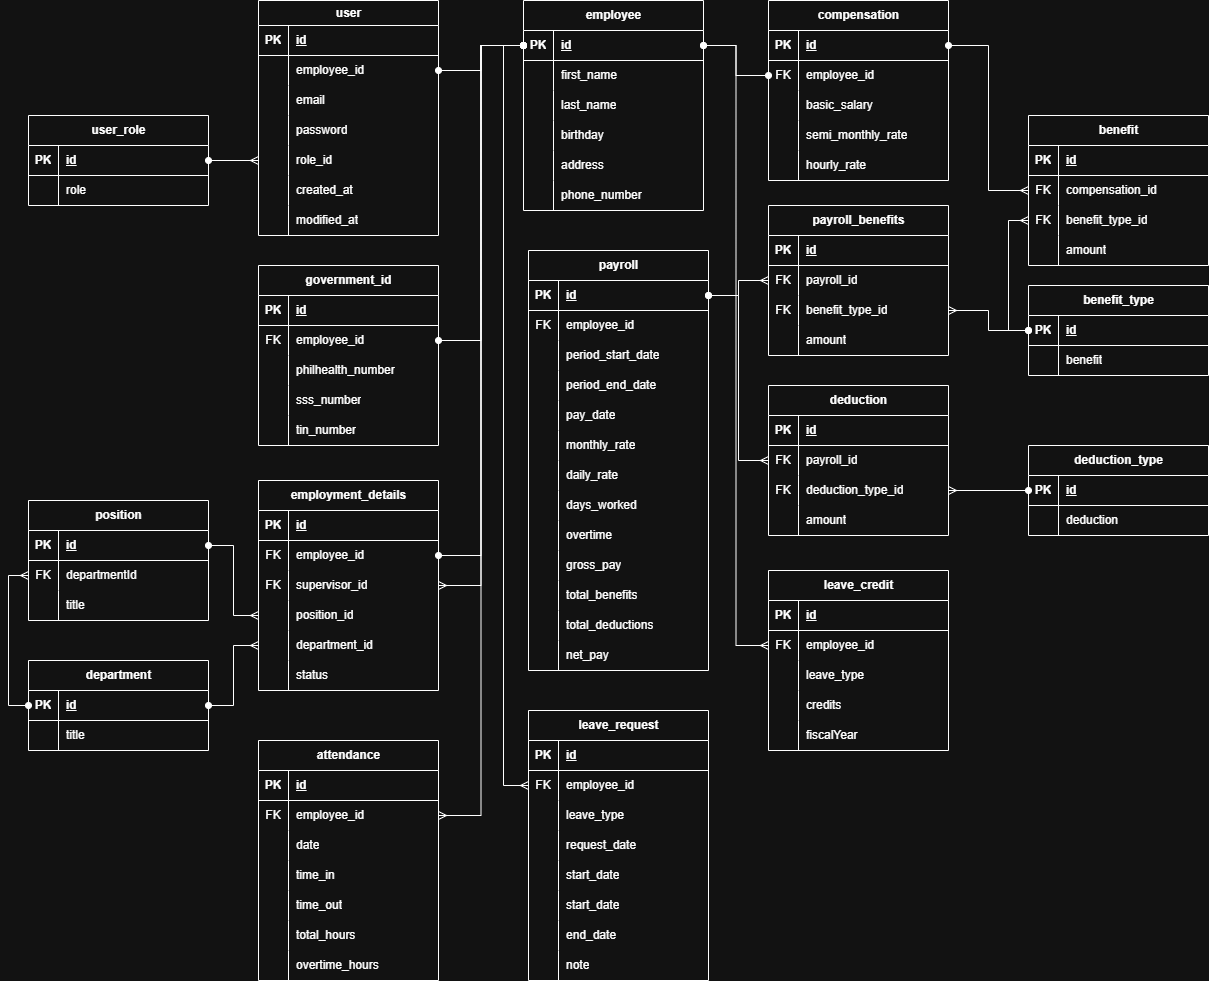
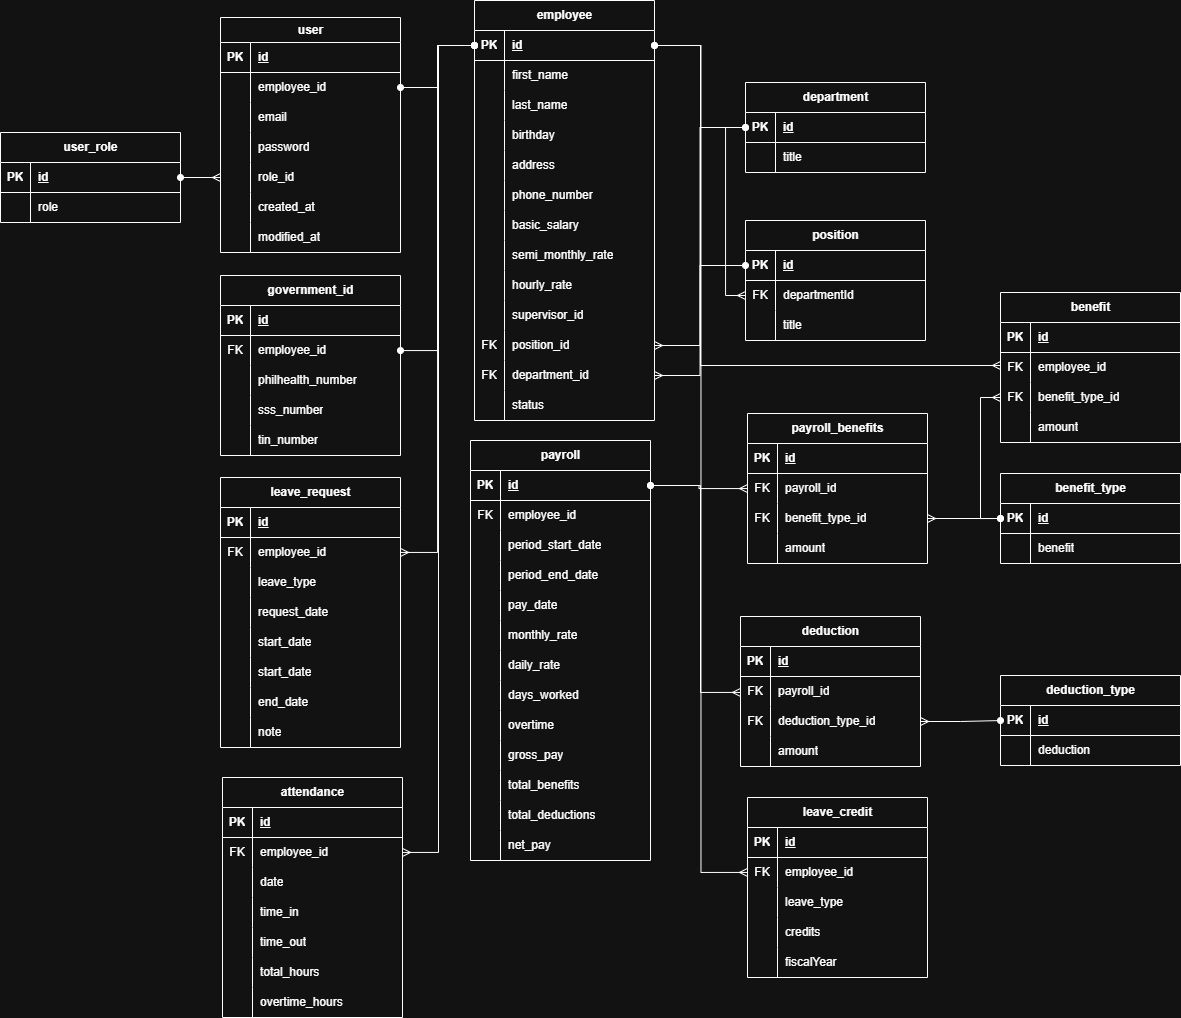
docs: simplify README and add updated erd

diff --git a/readme.md b/readme.md
@@ -2,167 +2,92 @@
 
 ![Java](https://img.shields.io/badge/Java-21-orange?style=flat-square&logo=openjdk)
 ![Spring Boot](https://img.shields.io/badge/Spring%20Boot-3.5.6-brightgreen?style=flat-square&logo=spring-boot)
-![PostgreSQL](https://img.shields.io/badge/PostgreSQL-14+-blue?style=flat-square&logo=postgresql)
-![Maven](https://img.shields.io/badge/Maven-3.8+-C71A36?style=flat-square&logo=apache-maven)
-![Status](https://img.shields.io/badge/Status-In%20Development-blue?style=flat-square)
+![Docker](https://img.shields.io/badge/Docker-Enabled-2496ED?style=flat-square&logo=docker)
+![CI/CD Pipeline](https://img.shields.io/github/actions/workflow/status/iodsky/sweldox-api/ci-cd.yml?branch=master&style=flat-square&logo=github&label=CI%2FCD)
 
-## 🎯 Project Overview
+## 🎯 Overview
 
-Sweldox API is a full-featured Human Resources Information System (HRIS) that manages employee data, attendance tracking, and payroll processing. The system implements role-based access control, JWT authentication, and follows clean architecture principles.
+Sweldox is a Human Resources Information System (HRIS) RESTful API that manages employee data, attendance tracking, leave management, and payroll processing. Built with Spring Boot 3.5.6 and Java 21, it features JWT authentication, role-based access control, and comprehensive API documentation with Swagger/OpenAPI.
 
-## 🏗 Architecture & Technology Stack
+## 🛠 Technology Stack
 
-### Core Technologies
-- **Java 21** - Modern Java LTS version with latest language features
-- **Spring Boot 3.5.6** - Enterprise-grade application framework
-- **Spring Data JPA** - Database abstraction and ORM
-- **Spring Security** - Authentication and authorization
-- **PostgreSQL** - Relational database management
-- **JWT (JSON Web Tokens)** - Stateless authentication mechanism
-- **Maven** - Dependency management and build automation
-
-### Key Dependencies
-- **Lombok** - Reduces boilerplate code
-- **OpenCSV** - CSV file processing for data imports
-- **Spring Validation** - Request validation
-- **Spring Boot DevTools** - Development productivity tools
-- **JJWT (JSON Web Token for Java)** - JWT token generation and validation
-
-## 📁 Project Structure
-
-```
-├── src/
-│   ├── main/
-│   │   ├── java/com/iodsky/sweldox/
-│   │   │   ├── Application.java      # Application entry point
-│   │   │   ├── attendance/                   # Attendance management module
-│   │   │   ├── common/                       # Shared utilities and DTOs
-│   │   │   ├── csvimport/                    # CSV import functionality
-│   │   │   ├── employee/                     # Employee management module
-│   │   │   ├── leave/                        # Leave management module
-│   │   │   ├── organization/                 # Department & Position management
-│   │   │   ├── payroll/                      # Payroll processing module
-│   │   │   └── security/                     # Authentication & Authorization
-│   │   └── resources/
-│   │       ├── application.yml               # Main configuration
-│   │       ├── application-prod.             # Production config
-│   │       └── application-local.yml         # Local development config
-│   └── test/                                 # Unit and integration tests
-├── db-init/                                  # Database initialization scripts
-├── Dockerfile                                # Container configuration
-├── pom.xml                                   # Maven dependencies
-└── README.md
-```
+- **Java 21** - Modern Java LTS with latest features
+- **Spring Boot 3.5.6** - Enterprise application framework
+- **Spring Data JPA** - Database ORM and abstraction
+- **Spring Security + JWT** - Authentication & authorization
+- **Spring Batch** - Bulk data processing
+- **PostgreSQL** - Production database (AWS RDS)
+- **Flyway** - Database migration management
+- **Swagger/OpenAPI** - API documentation
+- **Docker** - Containerization and deployment
+- **GitHub Actions** - CI/CD pipeline
+- **Maven** - Build and dependency management
 
 ## 🗄 Database Entity-Relationship Diagram
 
 ![](docs/images/erd.png)
 
-## 🔑 Key Features
+## ✨ Key Features
 
 ### 1. Employee Management
-- CRUD operations for employee records
-- Department and position assignment
-- Supervisor relationships and hierarchies
+- Complete CRUD operations for employee records
+- Department and position assignment with supervisor hierarchies
 - Government ID tracking (SSS, PhilHealth, TIN, Pag-IBIG)
-- Compensation details management (salary, allowances)
-- Advanced filtering by department, supervisor, and status
-- Pagination support for large datasets
-- CSV bulk import for employee data
+- Compensation management (salary, allowances, benefits)
+- Advanced filtering, pagination, and bulk CSV import
 
 ### 2. Attendance Tracking
-- Clock in/out functionality with automatic timestamp recording
-- Attendance history by date range
-- Employee-specific attendance records
-- HR oversight of all attendance data across organization
-- Date-based filtering and pagination
+- Clock in/out with automatic timestamp recording
+- Attendance history with date range filtering
+- Employee-specific and HR oversight capabilities
+- Integration with payroll system
 
-### 3. Payroll Processing
-- Automated payroll calculation based on attendance and compensation
-- Batch payroll generation for all employees in one operation
-- Individual payroll processing for specific employees
-- Payroll history tracking with period-based filtering
+### 3. Leave Management
+- **Leave Requests**: Create, track, and manage leave requests with multiple types (Vacation, Sick, Maternity, Paternity, Solo Parent, Bereavement)
+- **Leave Credits**: Annual leave allocations with fiscal year tracking
+- **Business Day Calculation**: Automatic exclusion of weekends
+- **Approval Workflow**: PENDING → APPROVED/REJECTED status flow
+- **CSV Import**: Bulk initialization of leave credits
+
+### 4. Payroll Processing
+- Automated payroll calculation based on attendance
+- Philippine payroll standards compliance (SSS, PhilHealth, Pag-IBIG, Withholding Tax)
+- Batch processing for all employees or individual generation
+- Benefits and deductions management
 - Period-based payroll reports with pagination
-- Integration with attendance data for accurate calculations
-- Benefits and deductions management system
 
-### 4. Leave Management
-- **Leave Request Management**
-  - Create, update, and track employee leave requests
-  - Support for multiple leave types: Vacation, Sick, Maternity, Paternity, Solo Parent, Bereavement
-  - Automatic business day calculation (excludes weekends)
-  - Leave status workflow: PENDING → APPROVED/REJECTED
-  - Employees can manage their own leave requests
-  - HR can view and approve/reject all leave requests
-  - Validation to prevent overlapping leave requests
-  - Note/reason field for leave justification
-  
-- **Leave Credit Management**
-  - Initialize leave credits for employees (HR only)
-  - Default annual leave allocations:
-    - Vacation Leave: 14 days
-    - Sick Leave: 7 days
-    - Bereavement Leave: 5 days
-  - Fiscal year-based credit tracking
-  - Automatic credit validation before leave approval
-  - Real-time credit balance tracking
-  - CSV bulk import for leave credit initialization
-  - View personal leave credit balances
-
-### 5. Security & Authentication
+### 5. Security & Access Control
 - JWT-based stateless authentication
-- Role-based access control (RBAC) with method-level security
-- Secure password hashing with BCrypt
-- Protected API endpoints with authorization checks
-- User session management through JWT tokens
-- Token-based API security
+- Role-based access control (HR, PAYROLL, IT, EMPLOYEE)
+- Method-level security with BCrypt password hashing
+- Secure API endpoints with authorization checks
 
 ### 6. User Management
-- User account creation and management
-- Role assignment and permission control
-- Integration with employee records
-- CSV bulk import for user accounts
-- IT-role exclusive access for user administration
+- User account creation and role assignment
+- Employee integration and bulk CSV import
+- IT-role exclusive administration access
 
-### 7. Data Import
-- CSV file processing for bulk data imports
-- Employee data import with validation
-- User account bulk creation
+### Philippine Payroll System
 
-### Payroll Calculation Details
-
-The payroll system implements Philippine payroll standards with automated calculation of:
+The system implements Philippine payroll standards:
 
 **Mandatory Deductions:**
-- **SSS (Social Security System)** - Progressive contribution table based on monthly salary compensation
-- **PhilHealth** - 3% premium rate with maximum cap of ₱1,800
-- **Pag-IBIG (HDMF)** - 1-2% based on monthly compensation, capped at ₱100
-- **Withholding Tax** - Progressive tax brackets according to TRAIN Law
-
-**Gross Pay Calculation:**
-- Based on attendance records (hours worked)
-- Hourly rate derived from monthly salary
-- Overtime and holiday pay support (when applicable)
-
-**Benefits Management:**
-- Rice subsidy
-- Phone allowance
-- Clothing allowance
-- Other customizable benefits
+- SSS (Social Security System) - Progressive contribution table
+- PhilHealth - 3% premium rate (max ₱1,800)
+- Pag-IBIG - 1-2% based on compensation (max ₱100)
+- Withholding Tax - Progressive tax brackets (TRAIN Law)
 
 **Net Pay Formula:**
 ```
-Net Pay = Gross Pay + Total Benefits - (SSS + PhilHealth + Pag-IBIG + Withholding Tax)
+Net Pay = Gross Pay + Benefits - (SSS + PhilHealth + Pag-IBIG + Tax)
 ```
 
 ## 🔐 User Roles & Permissions
 
-The system implements a role-based access control system with the following roles:
-
-- **HR** - Full access to employee management, attendance oversight, and organizational data
-- **PAYROLL** - Access to payroll processing and generation
-- **IT** - Access to employee information for system administration
-- **EMPLOYEE** - Basic access to personal information, attendance, and payroll records
+- **HR** - Employee management, attendance oversight, leave approvals, organizational data
+- **PAYROLL** - Payroll processing and generation
+- **IT** - User management and system administration
+- **EMPLOYEE** - Personal information, attendance, and payroll records
 
 ## 🚀 Getting Started
 
@@ -254,46 +179,42 @@ The executable JAR will be generated in the `target/` directory.
 
 ## 🐳 Docker Support
 
-The project includes Docker support for containerized deployment with Docker Compose.
+The project includes Docker support for containerized deployment.
 
-### Docker Compose Configuration
-
-The project includes two Docker Compose configurations:
+### Docker Compose Configurations
 
 1. **`compose.db.yml`** - Database only (for local development)
    - Runs PostgreSQL container
    - Exposes port 5432
-   - Includes database initialization scripts
 
 2. **`compose.yml`** - Full application stack (for production deployment)
-   - Spring Boot API container
-   - Configured to connect to external AWS RDS PostgreSQL (no local database container)
+   - Spring Boot API container (from GitHub Container Registry)
+   - Connects to AWS RDS PostgreSQL
    - Watchtower for automatic container updates
-   - Traefik reverse proxy integration (external network)
+   - Traefik reverse proxy integration
 
-### Build Docker Image
+### Usage
+
+**Build Docker Image:**
 ```powershell
 docker build -t sweldox-api .
 ```
 
-### Run with Docker Compose (Full Stack)
+**Run Full Stack (Production):**
 ```powershell
-# Ensure .env file is configured with production settings
 docker compose --env-file .env up -d
 ```
 
-### Run Database Only (Local Development)
+**Run Database Only (Local Development):**
 ```powershell
 docker compose --env-file .env -f compose.db.yml up -d
 ```
 
-The Dockerfile uses a multi-stage build:
-- **Builder stage**: Eclipse Temurin JDK 21 for compilation
-- **Runtime stage**: Eclipse Temurin JRE 21 for optimized deployment
+The Dockerfile uses a multi-stage build with Eclipse Temurin JDK 21 for compilation and JRE 21 for optimized deployment.
 
 ## 🧪 Testing
 
-The project includes comprehensive test coverage:
+Comprehensive test coverage includes:
 
 - **Unit Tests** - Service layer business logic
 - **Test Coverage Areas**:
@@ -309,32 +230,16 @@ Run tests with:
 ./mvnw test
 ```
 
-## 📋 Project Roadmap
+## 📚 API Documentation
 
-### Phase 1: Core Development ✅
-- [x] Employee management system
-- [x] Attendance tracking
-- [x] Payroll processing
-- [x] Leave management system
-- [x] JWT authentication
-- [x] Role-based authorization
-- [x] CSV import functionality
-- [x] Unit tests
-- [x] User management system
-- [x] Docker support with multi-stage builds
-- [x] Multi-environment configuration (local/prod)
+The API documentation is available via Swagger/OpenAPI UI:
 
-### Phase 2: AWS RDS Migration 📅
-- [X] **AWS RDS PostgreSQL Setup**
+**Local Development:**
+```
+http://localhost:8001/swagger-ui/index.html
+```
 
-### Phase 3: AWS EC2 Deployment 📅
-- [X] **EC2 Instance Configuration**
-- [X] **Traefik Reverse Proxy Setup**
-- [X] **Deployment Pipeline**
-  - Deploy application via Docker Compose
-  - Configure Watchtower for automatic updates
-  - Set up monitoring and logging
-
-### Phase 4: Documentation & Enhancement 🔮
-- [ ] OpenAPI/Swagger documentation
----
+**OpenAPI JSON Spec:**
+```
+http://localhost:8001/v3/api-docs
+```
